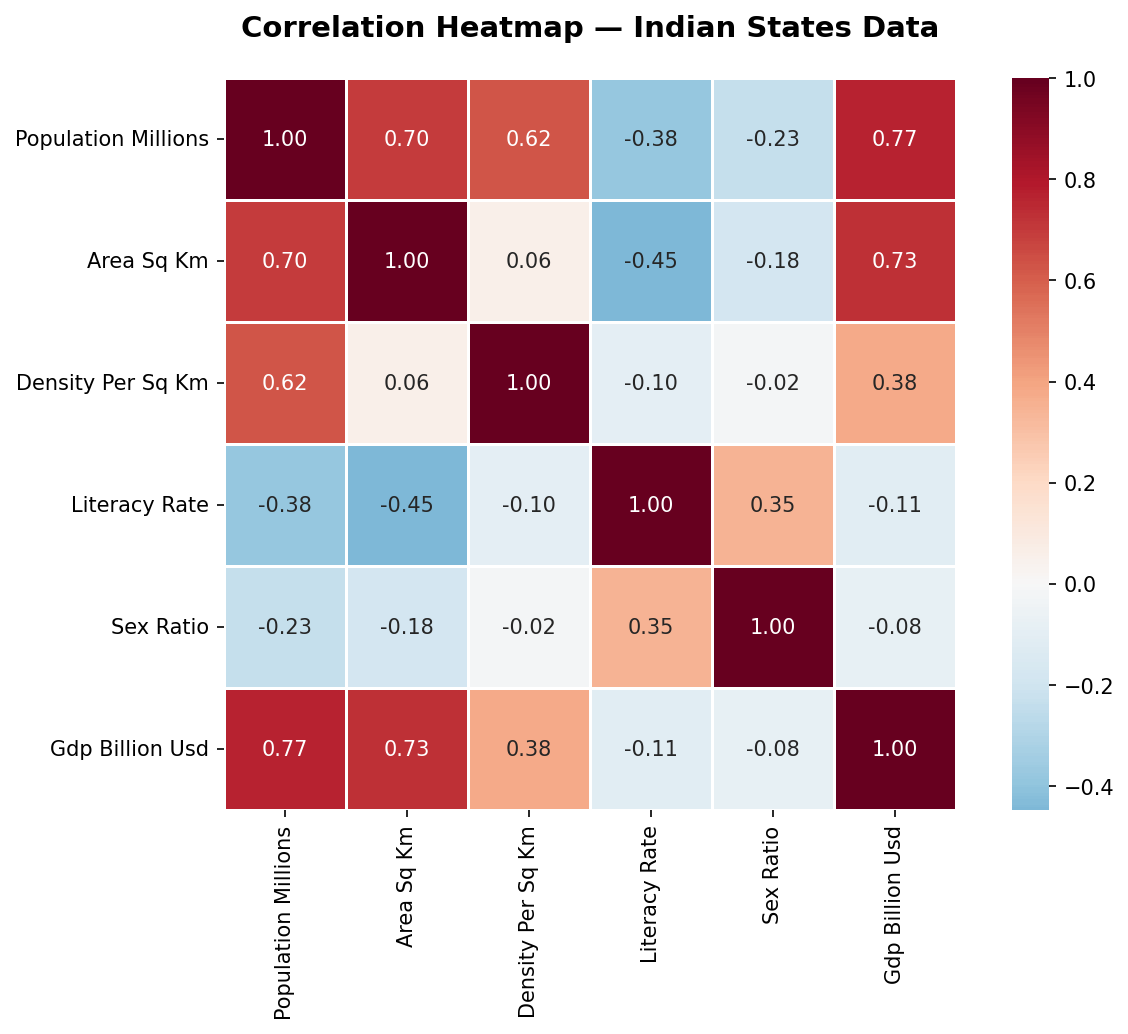
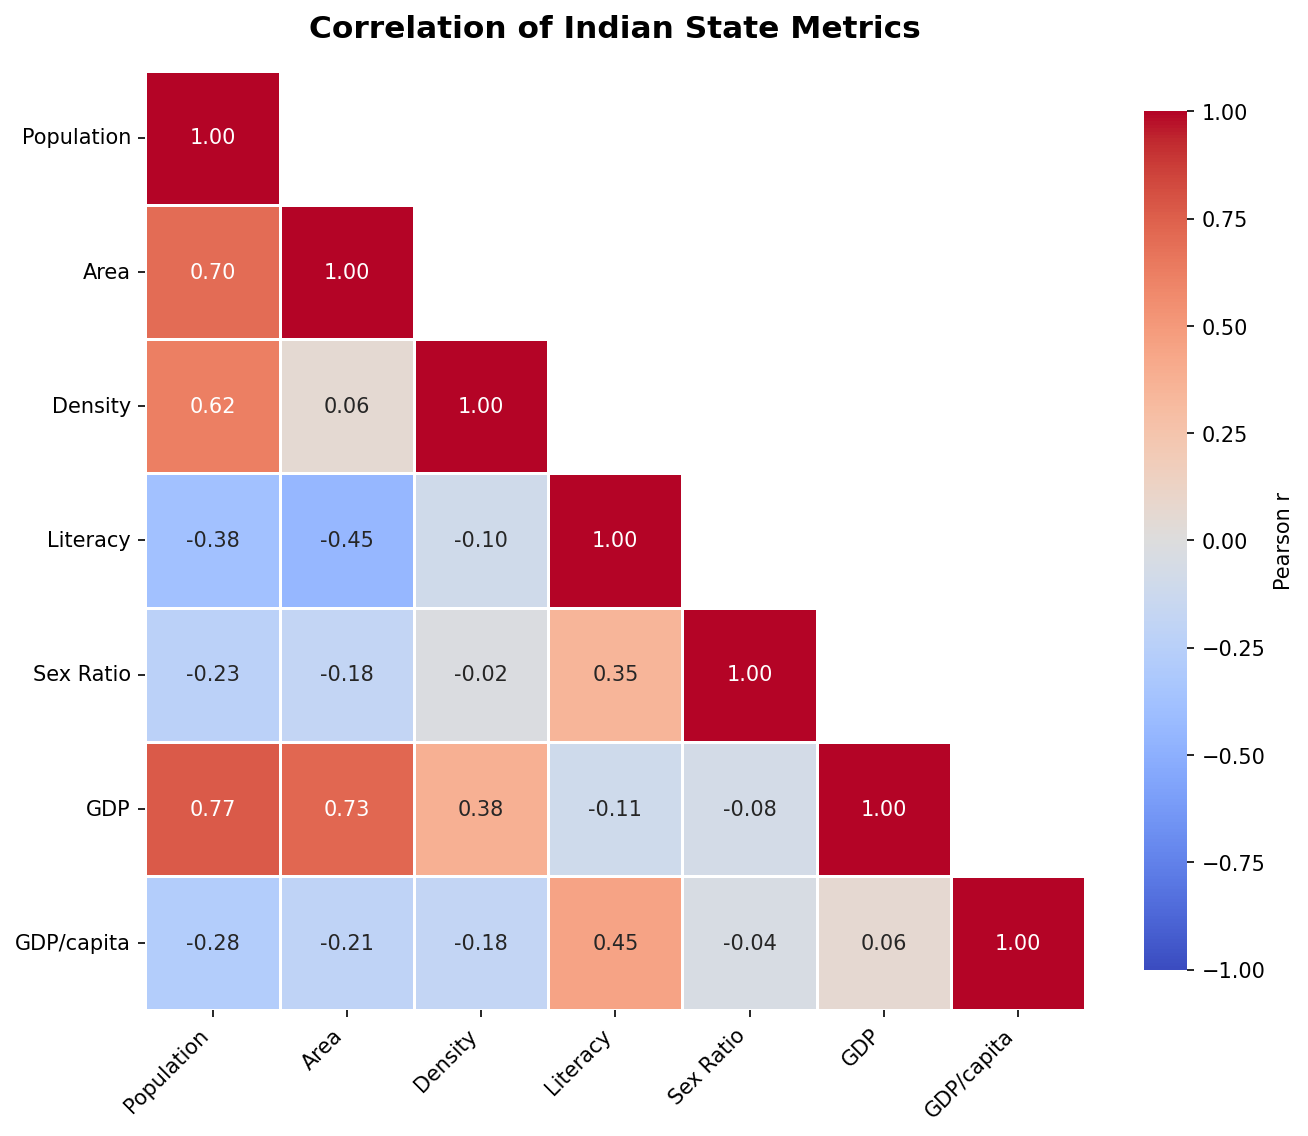
Add correlation analysis with heatmap and strongest-pair ranking

diff --git a/src/plot_correlation.py b/src/plot_correlation.py
@@ -1,0 +1,100 @@
+"""Plot correlation heatmap across Indian state metrics."""
+
+import matplotlib.pyplot as plt
+import seaborn as sns
+import pandas as pd
+import numpy as np
+from pathlib import Path
+from analyze import load_data
+
+
+def plot_correlation_heatmap(df: pd.DataFrame) -> None:
+    """Correlation heatmap of numeric state metrics, including derived GDP per capita."""
+    df = df.copy()
+    df["gdp_per_capita"] = (df["gdp_billion_usd"] * 1000) / df["population_millions"]
+
+    metrics = [
+        "population_millions",
+        "area_sq_km",
+        "density_per_sq_km",
+        "literacy_rate",
+        "sex_ratio",
+        "gdp_billion_usd",
+        "gdp_per_capita",
+    ]
+    labels = [
+        "Population",
+        "Area",
+        "Density",
+        "Literacy",
+        "Sex Ratio",
+        "GDP",
+        "GDP/capita",
+    ]
+
+    corr = df[metrics].corr()
+
+    fig, ax = plt.subplots(figsize=(9, 8))
+    mask = np.triu(np.ones_like(corr, dtype=bool), k=1)
+    sns.heatmap(
+        corr,
+        mask=mask,
+        annot=True,
+        fmt=".2f",
+        cmap="coolwarm",
+        center=0,
+        vmin=-1,
+        vmax=1,
+        square=True,
+        linewidths=0.5,
+        cbar_kws={"shrink": 0.8, "label": "Pearson r"},
+        xticklabels=labels,
+        yticklabels=labels,
+        ax=ax,
+    )
+
+    ax.set_title("Correlation of Indian State Metrics", fontsize=15, fontweight="bold", pad=16)
+    plt.xticks(rotation=45, ha="right")
+    plt.yticks(rotation=0)
+
+    plt.tight_layout()
+    output = Path(__file__).parent.parent / "plots" / "correlation_heatmap.png"
+    output.parent.mkdir(exist_ok=True)
+    plt.savefig(output, dpi=150, bbox_inches="tight")
+    print(f"  Saved: {output}")
+    plt.close()
+
+
+def print_strongest_pairs(df: pd.DataFrame, top_n: int = 5) -> None:
+    """Print the strongest metric correlations, ignoring self-pairs."""
+    df = df.copy()
+    df["gdp_per_capita"] = (df["gdp_billion_usd"] * 1000) / df["population_millions"]
+
+    metrics = [
+        "population_millions",
+        "area_sq_km",
+        "density_per_sq_km",
+        "literacy_rate",
+        "sex_ratio",
+        "gdp_billion_usd",
+        "gdp_per_capita",
+    ]
+
+    corr = df[metrics].corr().abs()
+    pairs = (
+        corr.where(np.triu(np.ones(corr.shape, dtype=bool), k=1))
+        .stack()
+        .sort_values(ascending=False)
+    )
+
+    print(f"\n  Top {top_n} strongest correlations:")
+    for (a, b), val in pairs.head(top_n).items():
+        print(f"    {a} <-> {b}: {val:.2f}")
+
+
+if __name__ == "__main__":
+    df = load_data()
+    print("\nGenerating correlation plots...")
+    plot_correlation_heatmap(df)
+    print_strongest_pairs(df)
+    print("Done!")